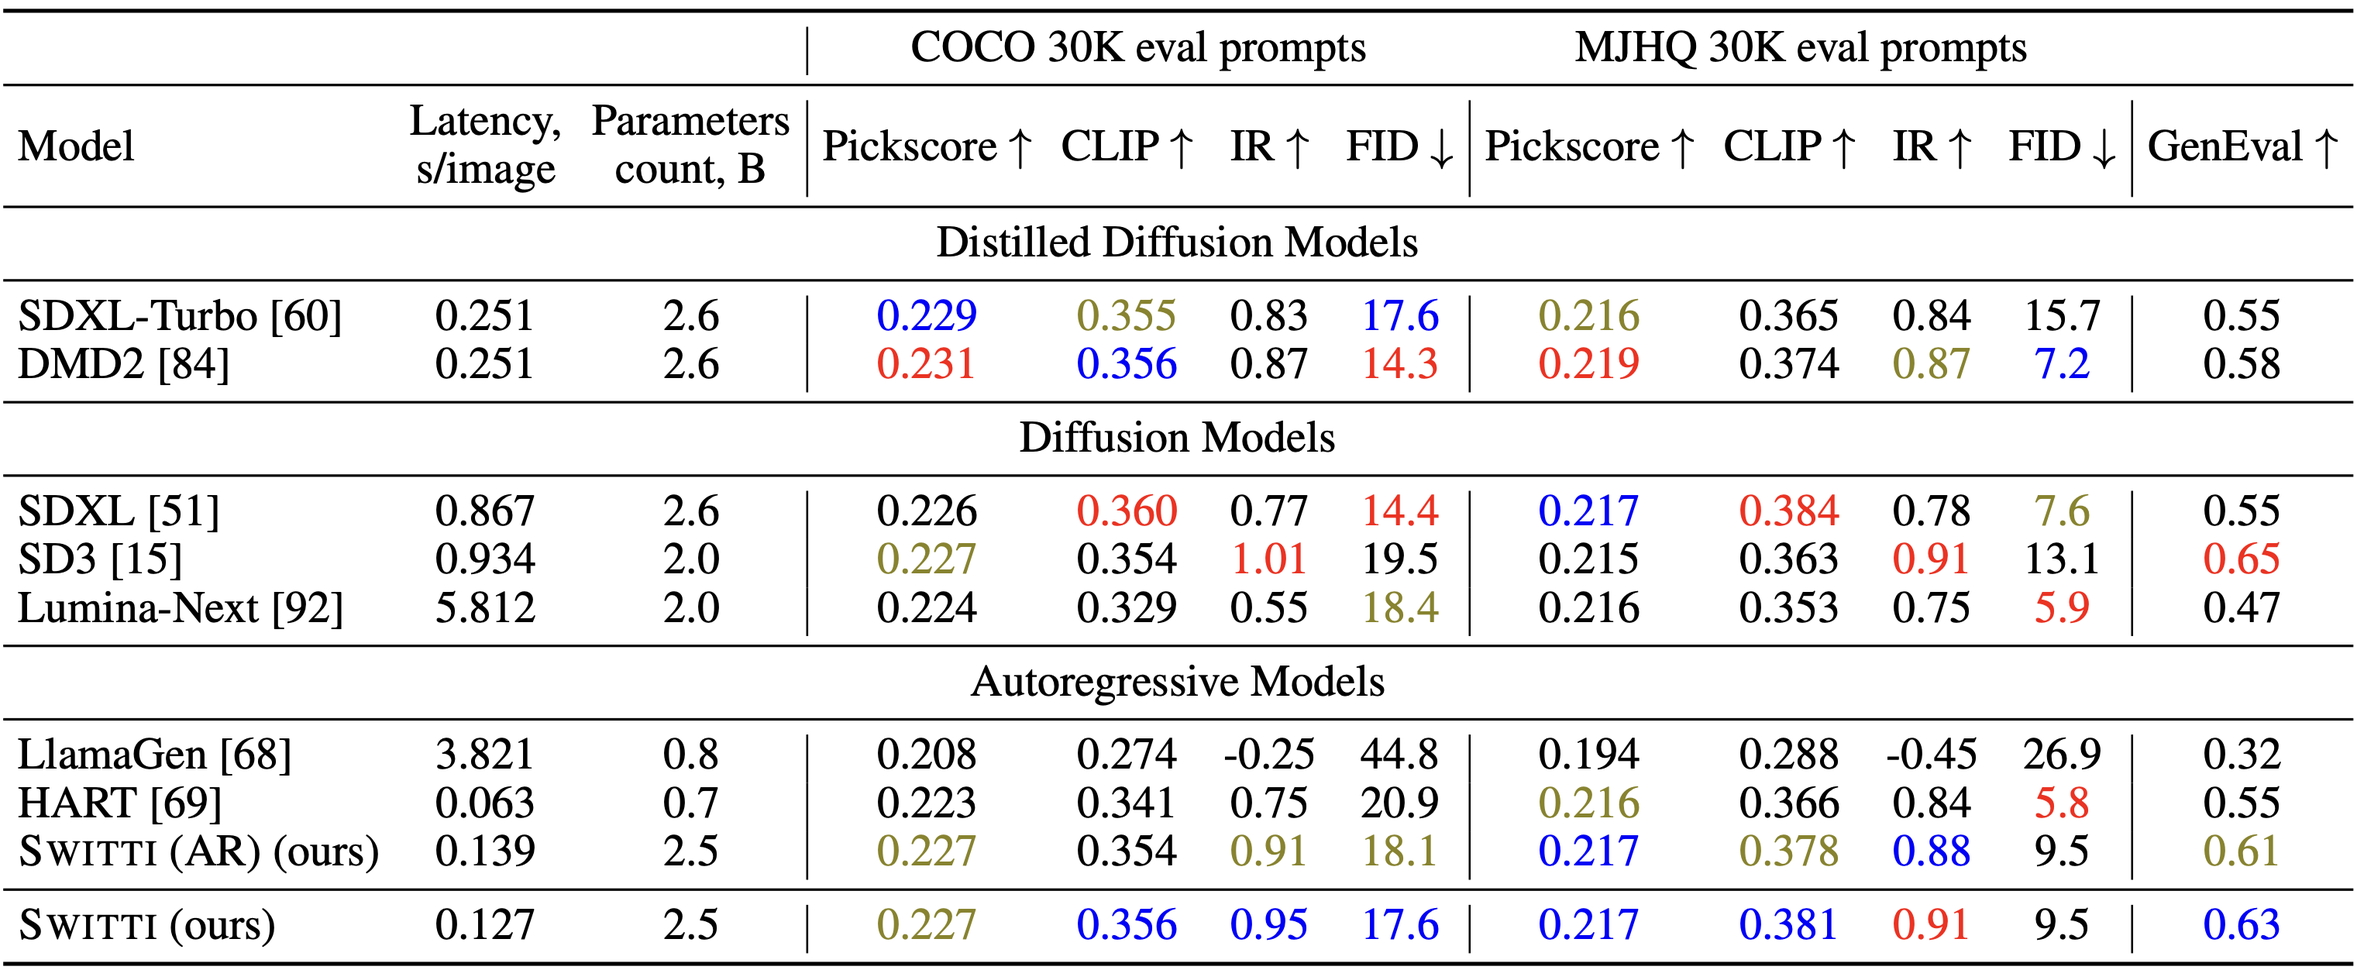
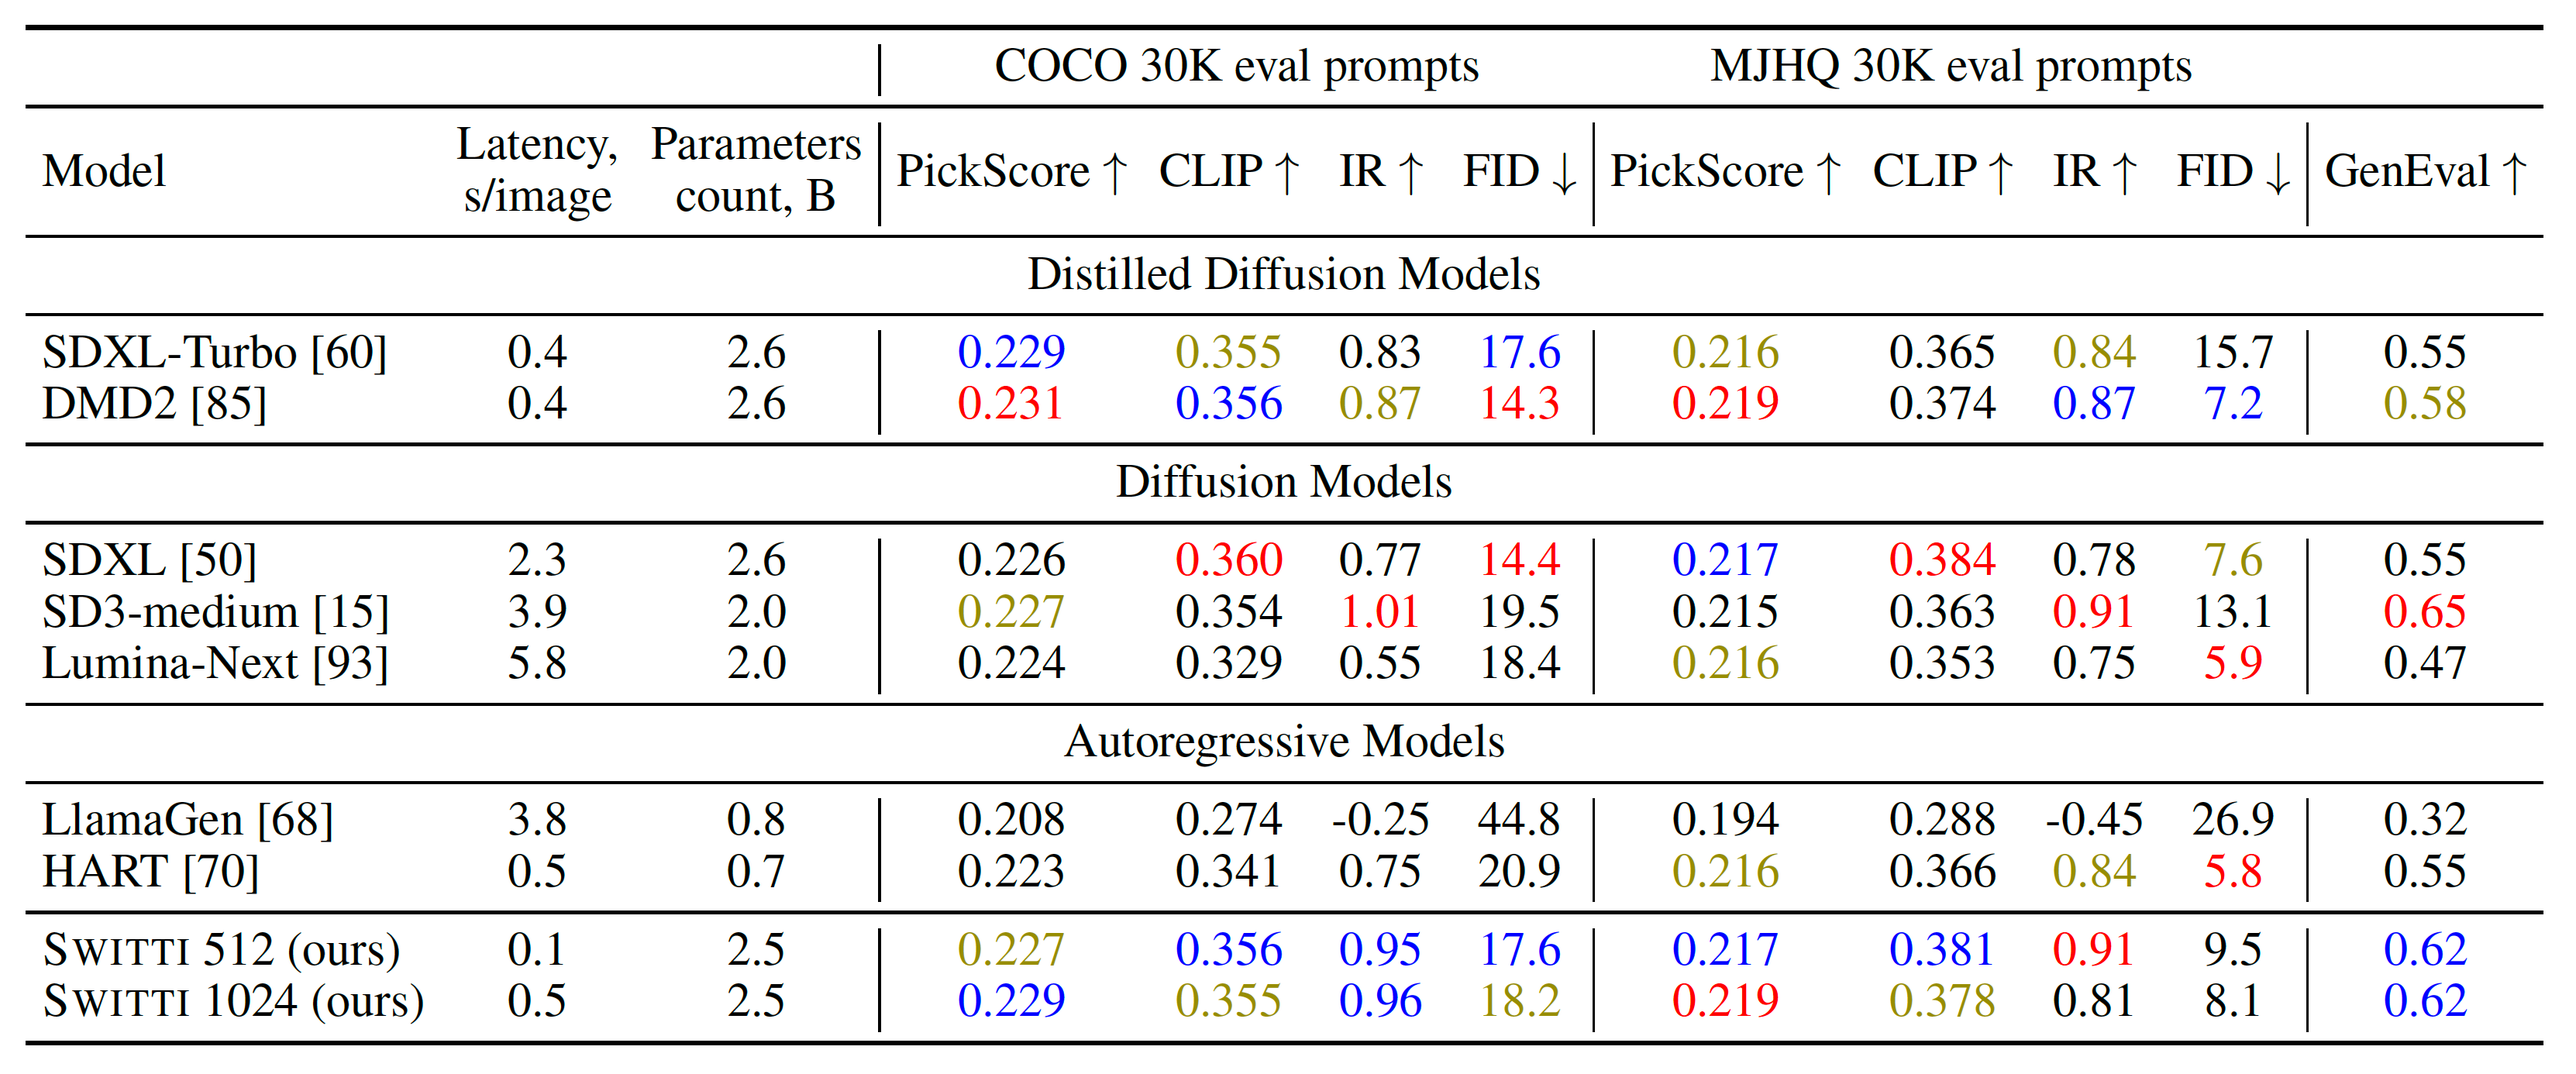
update images and text for 1024 version

Changed region(s): [[0.0, 0.0, 0.9993, 0.9968]]

diff --git a/index.html b/index.html
@@ -60,9 +60,9 @@
                 <span class="author-block">
                   <a href="https://scholar.google.com/citations?user=L78B2lcAAAAJ" target="_blank">Denis Kuznedelev</a><sup>1, 4</sup>,</span>
                    <span class="author-block">
-                  <a href="https://scholar.google.com/citations?user=BWLDIa8AAAAJ&hl" target="_blank">Mikhail Khoroshikh</a><sup>1</sup>,</span>
+                  <a href="https://scholar.google.com/citations?user=BWLDIa8AAAAJ&hl" target="_blank">Mikhail Khoroshikh</a><sup>6</sup>,</span>
                    <span class="author-block">
-                  <a href="https://scholar.google.com/citations?user=GS5HTlkAAAAJ&hl" target="_blank">Valentin Khrulkov</a><sup>1</sup>,</span>
+                  <a href="https://scholar.google.com/citations?user=GS5HTlkAAAAJ&hl" target="_blank">Valentin Khrulkov</a><sup>1, 5</sup>,</span>
                   <span class="author-block">
                     <a href="https://scholar.google.com/citations?hl=ru&user=NiPmk8oAAAAJ" target="_blank">Dmitry Baranchuk</a><sup>1</sup>
                   </span>
@@ -70,7 +70,7 @@
 
                  <div class="is-size-5 publication-authors">
                     <span class="author-block"><sup>1</sup>Yandex Research  &nbsp;&nbsp;&nbsp;&nbsp;&nbsp;&nbsp; <sup>2</sup>HSE University</span> &nbsp;&nbsp;&nbsp;&nbsp;&nbsp;&nbsp;
-                    <sup>3</sup>MIPT</span> &nbsp;&nbsp;&nbsp;&nbsp;&nbsp;&nbsp; <sup>4</sup>Skoltech</span>
+                    <sup>3</sup>MIPT</span> &nbsp;&nbsp;&nbsp;&nbsp;&nbsp;&nbsp; <sup>4</sup>Skoltech</span> &nbsp;&nbsp;&nbsp;&nbsp;&nbsp;&nbsp; <sup>5</sup>AIRI</span> &nbsp;&nbsp;&nbsp;&nbsp;&nbsp;&nbsp; <sup>6</sup>ITMO</span>
                    <!-- <br>Conferance name and year -->
                     <!-- <span class="eql-cntrb"><small><br><sup>*</sup>Indicates Equal Contribution</small></span> -->
                   </div>
@@ -111,7 +111,7 @@
                 </span>
 
                 <span class="link-block">
-                  <a href="https://huggingface.co/spaces/dbaranchuk/Switti" target="_blank"
+                  <a href="https://huggingface.co/spaces/dbaranchuk/Switti-1024" target="_blank"
                   class="external-link button is-normal is-rounded is-dark">
                   <span class="icon">
                     <span>&#129303;</span>
@@ -143,7 +143,7 @@
 <section class="hero teaser">
   <div class="container is-max-desktop">
     <div class="hero-body">
-        <img src="static/images/teaser.jpg" alt="MY ALT TEXT"/>
+        <img src="static/images/teaser.png" alt="MY ALT TEXT"/>
         <!-- <h2 class="subtitle has-text-centered">
           Overview of the proposed layer-wise calibration procedure before fine-tuning.
         </h2> -->
@@ -160,13 +160,12 @@
         <h2 class="title is-3">Abstract</h2>
         <div class="content has-text-justified">
           <p>
-            This work presents Switti, a scale-wise transformer for text-to-image generation. 
-            Starting from existing next-scale prediction AR models, we first explore them for T2I generation and propose architectural modifications to improve their convergence and overall performance. 
-            We then observe that self-attention maps of our pretrained scale-wise AR model exhibit weak dependence on preceding scales. 
-            Based on this insight, we propose a non-AR counterpart facilitating ~11% faster sampling and lower memory usage while also achieving slightly better generation quality.
+            This work presents SWITTI, a scale-wise transformer for text-to-image generation.
+            We start by adapting an existing next-scale prediction autoregressive (AR) architecture to T2I generation, investigating and mitigating training stability issues in the process.
+            Next, we argue that scale-wise transformers do not require causality and propose a non-causal counterpart facilitating ∼21% faster sampling and lower memory usage while also achieving slightly better generation quality.
             Furthermore, we reveal that classifier-free guidance at high-resolution scales is often unnecessary and can even degrade performance. 
-            By disabling guidance at these scales, we achieve an additional sampling acceleration of ~20% and improve the generation of fine-grained details. 
-            Extensive human preference studies and automated evaluations show that Switti outperforms existing T2I AR models and competes with state-of-the-art T2I diffusion models while being up to 7x faster.
+            By disabling guidance at these scales, we achieve an additional sampling acceleration of ∼32% and improve the generation of fine-grained details. 
+            Extensive human preference studies and automated evaluations show that SWITTI outperforms existing T2I AR models and competes with state-of-the-art T2I diffusion models while being up to 7× faster.
           </p>
         </div>
       </div>
@@ -183,21 +182,21 @@
       <div id="results-carousel" class="carousel results-carousel">
        <div class="item">
         <!-- Your image here -->
-        <img src="static/images/gh-page-image_grid_different_models_2.jpg" alt="MY ALT TEXT"/>
+        <img src="static/images/comp_v_baselines_3_0.png" alt="MY ALT TEXT"/>
         <!-- <h2 class="subtitle has-text-centered">
           Qualitative comparison of Switti against competing AR and diffusion-based models.
         </h2> -->
       </div>
       <div class="item">
         <!-- Your image here -->
-        <img src="static/images/gh-page-image_grid_different_models_0.jpg" alt="MY ALT TEXT"/>
+        <img src="static/images/comp_v_baselines_3_1.png" alt="MY ALT TEXT"/>
         <!-- <h2 class="subtitle has-text-centered">
           Qualitative comparison of Switti against competing AR and diffusion-based models.
         </h2> -->
       </div>
       <div class="item">
         <!-- Your image here -->
-        <img src="static/images/gh-page-image_grid_different_models_1.jpg" alt="MY ALT TEXT"/>
+        <img src="static/images/comp_v_baselines_3_2.png" alt="MY ALT TEXT"/>
         <!-- <h2 class="subtitle has-text-centered">
           Qualitative comparison of Switti against competing AR and diffusion-based models.
         </h2> -->
@@ -230,9 +229,9 @@
        <font size="20"> Inference performance evaluation</font>
 </h2>
     <div class="container" align="center">
-        <img src="static/images/inference_results.png" alt="MY ALT TEXT" width="50%" />
+        <img src="static/images/inference_results_1024.png" alt="MY ALT TEXT" width="50%" />
         <h2 class="subtitle has-text-centered">
-          Comparison of models’ 512×512 image generation time.
+          Comparison of models’ 1024×1024 image generation time.
         </h2>
     </div>
   </div>
